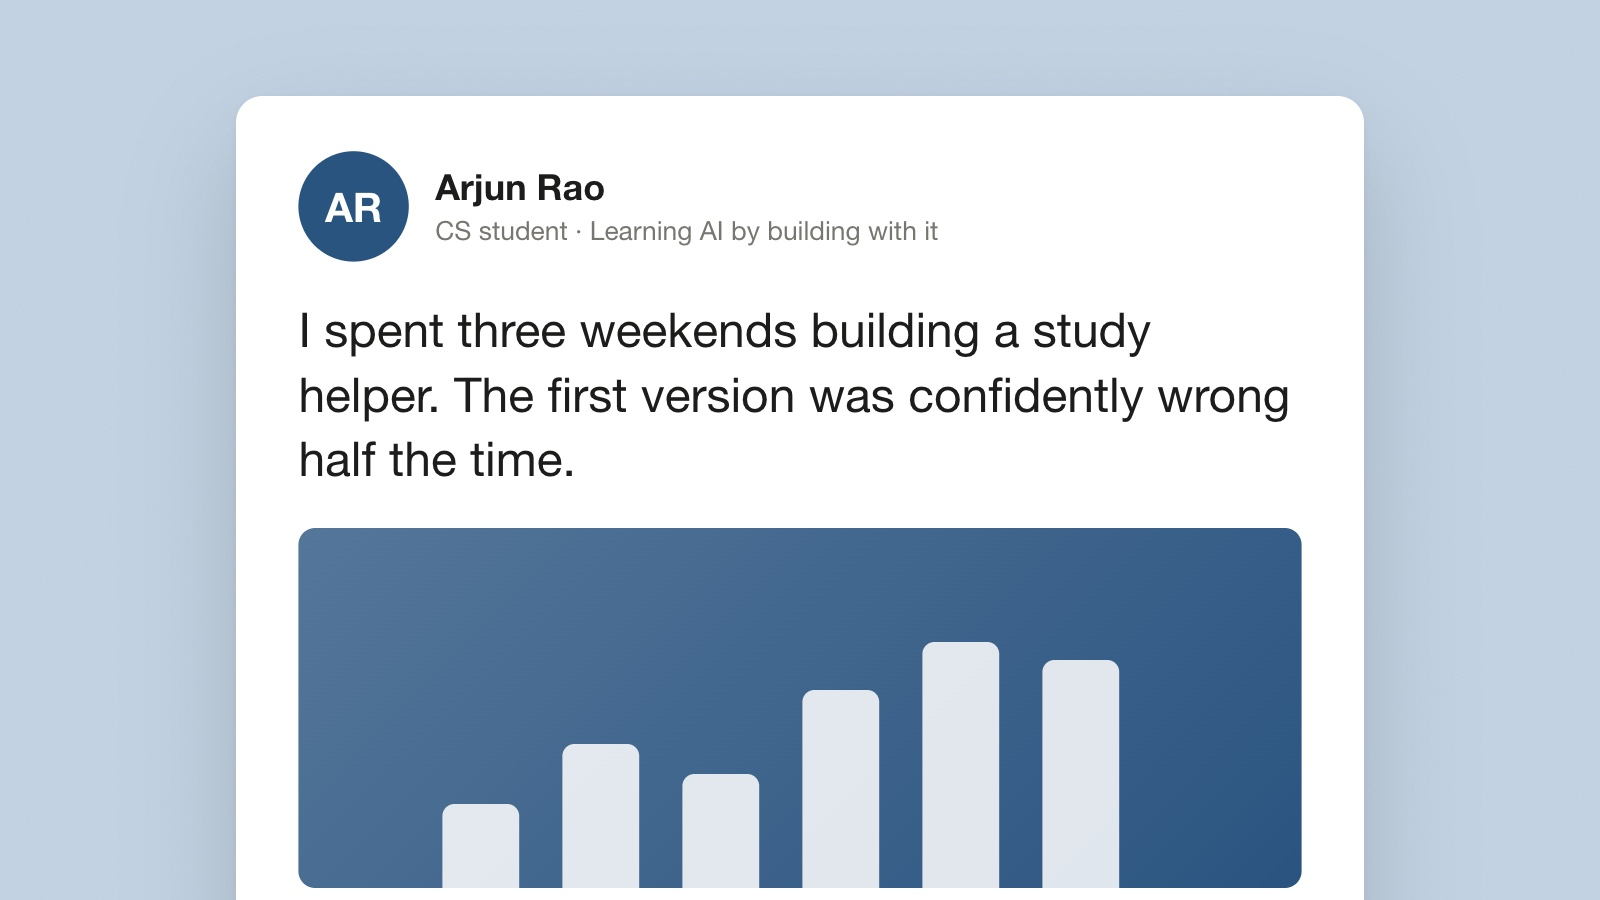
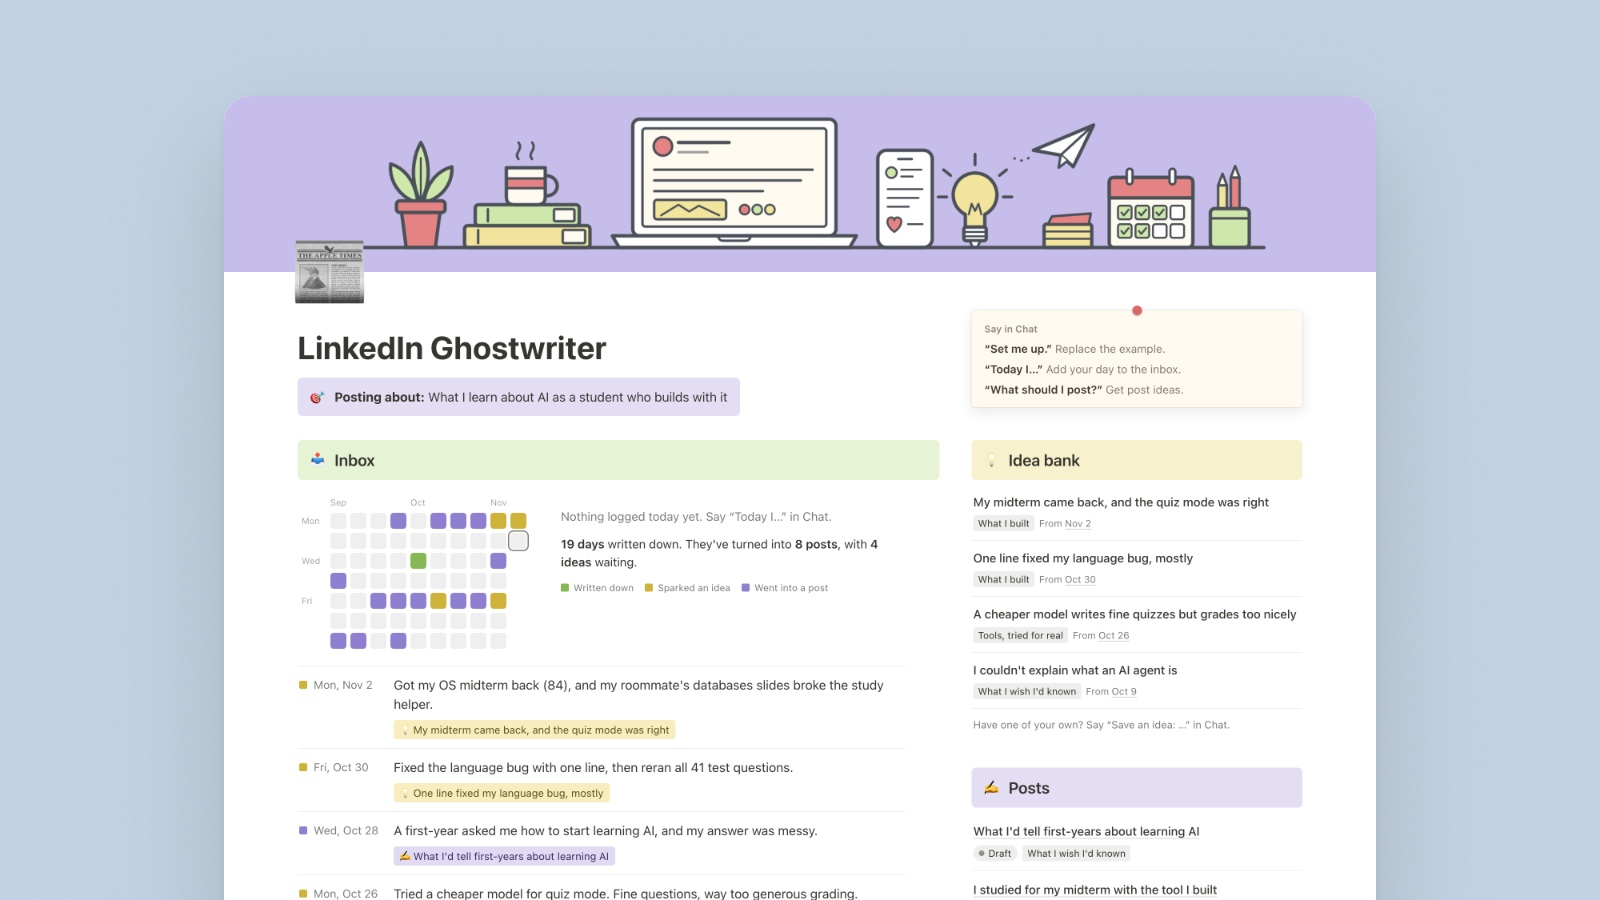
Show LinkedIn Ghostwriter's dashboard as its cover and describe the daily inbox
The template now starts from a day-by-day inbox instead of X news, so
the entry says so, and the cover is a screenshot of its dashboard: the
check-in grid, the idea bank, and the posts.

diff --git a/covers/linkedin-ghostwriter.html b/covers/linkedin-ghostwriter.html
@@ -4,26 +4,13 @@
 <meta charset="utf-8">
 <link rel="stylesheet" href="cover.css">
 <style>
-  .thing { width: 940px; padding: 46px 52px 34px; }
-  .author { display: flex; gap: 22px; align-items: center; }
-  .avatar { width: 92px; height: 92px; font-size: 34px; }
-  .author b { display: block; font-size: 30px; }
-  .author span { display: block; font-size: 22px; color: #77776f; margin-top: 4px; }
-  .text { font-size: 40px; line-height: 1.35; margin-top: 30px; }
-  .picture { margin-top: 30px; height: 300px; border-radius: 14px; background: linear-gradient(135deg, color-mix(in srgb, var(--deep) 80%, #fff), var(--deep)); position: relative; overflow: hidden; }
-  .picture i { position: absolute; bottom: 0; width: 64px; border-radius: 10px 10px 0 0; background: rgba(255, 255, 255, 0.85); }
-  .bar { display: flex; justify-content: space-between; margin-top: 24px; padding-top: 20px; border-top: 1.5px solid #e6e6e2; font-size: 22px; font-weight: 600; color: #77776f; }
+  /* The thing is the ghostwriter dashboard itself: a real screenshot at 1440 × 1080, taken at 2x. */
+  .thing { width: 960px; min-height: 0; overflow: hidden; }
+  .thing img { display: block; width: 100%; }
 </style>
 </head>
 <body class="blue">
   <div class="grain"></div>
-  <div class="thing">
-    <div class="author"><div class="avatar">AR</div><div><b>Arjun Rao</b><span>CS student · Learning AI by building with it</span></div></div>
-    <p class="text">I spent three weekends building a study helper. The first version was confidently wrong half the time.</p>
-    <div class="picture">
-      <i style="left: 120px; height: 70px"></i><i style="left: 220px; height: 120px"></i><i style="left: 320px; height: 95px"></i><i style="left: 420px; height: 165px"></i><i style="left: 520px; height: 205px"></i><i style="left: 620px; height: 190px"></i>
-    </div>
-    <div class="bar"><span>128 reactions</span><span>23 comments</span><span>Repost</span></div>
-  </div>
+  <div class="thing"><img src="linkedin-ghostwriter.png" alt=""></div>
 </body>
 </html>

diff --git a/covers/README.md b/covers/README.md
@@ -16,7 +16,7 @@ sips -s format jpeg -s formatOptions 90 cover.png --out wikis/<id>/screenshots/c
 | Project | Tone and thing | Banner |
 | --- | --- | --- |
 | resume-builder | green, resume page | — |
-| linkedin-ghostwriter | blue, LinkedIn post | — |
+| linkedin-ghostwriter | blue, screenshot of the ghostwriter dashboard: the inbox check-in grid, idea bank, and posts | lavender `#c7bdea` |
 | x-content-starter | clay, post on X | — |
 | paper-tracker-for-industry | violet, weekly digest | — |
 | llm-wiki-for-papers | green, screenshot of the wiki's dashboard: topics, papers, and progress | blue `#a6cbe8` |
